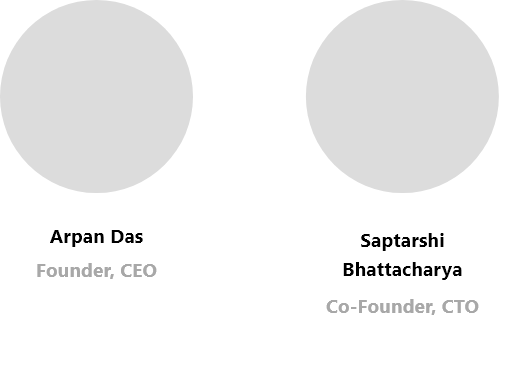
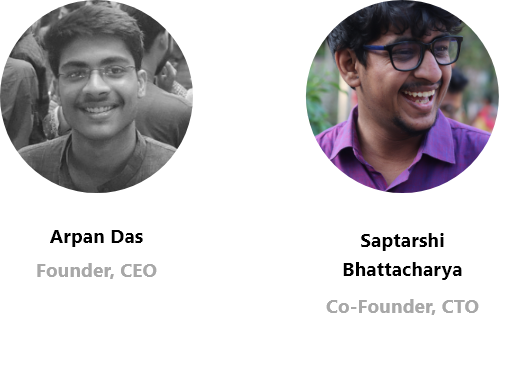
arcade

Changed region(s): [[0.5769, 0.0, 0.9715, 0.5366], [0.0, 0.0, 0.3643, 0.5366]]

diff --git a/pages/index.js b/pages/index.js
@@ -4,7 +4,7 @@ import {Toolbar} from "../components/toolbar.jsx";
 
 export default function Home() {
   return (
-    <div className={styles.container}>
+    <div className={styles.container} id="arcadee">
 
       <Toolbar/>
 
@@ -16,7 +16,7 @@ export default function Home() {
       </div>
       <div className={styles.introtext}>
         <p><span>Imagine being in a Shopping Mall.</span> All the people around you continuously engaging in shopping and activities. Picture the feeling of walking into a shop you are regular in or the joy of finding a hidden gem. How good would it be if you could experience all that from the comfort of your homes? Well, we just made that possible!</p>
-        <Link href="/"><a>Read More ></a></Link>
+        {/* <Link href="/"><a>Read More ></a></Link> */}
       </div>
 
       <div className={styles.recom}>
@@ -26,7 +26,7 @@ export default function Home() {
       <div className={styles.spotlight}>
         <img src="/spotlight.png" alt="" className={styles.spotim} />
         <p>Through recommendations, suggestions launches, maps and various posts, Arcade serves as a huge marketing  platform for companies and their products. Users get exposed to both products they need and are also led to discover new stuff. We aim to provide a one-stop solution for both marketing and sales, and this a huge step in that way. </p>
-        <Link href="/"><a>About Arcade Spotlight ></a></Link>
+        {/* <Link href="/"><a>About Arcade Spotlight ></a></Link> */}
       </div>
 
       <div className={styles.analytics}>
@@ -35,7 +35,7 @@ export default function Home() {
           <div className={styles.analtext}>
             <p>Analytics are provided for Companies, Outlets and Products. These may be used to dictate company or product rankings. <br/> <br/>
               Companies can leverage their analytics and compare to the general market to come up with strategies, while users can judge products and outlets based on these parameters.</p>
-            <Link href="/"><a>Read More ></a></Link>
+            {/* <Link href="/"><a>Read More ></a></Link> */}
           </div>
           <img src="/analphone.png" alt="" border="0" />
         </div>
@@ -45,7 +45,7 @@ export default function Home() {
         <img src="/community.png" alt="" className={styles.comm} />
         <div className={styles.commsub}>
           <p>To replicate the E-mall experience, Arcade has features like live threads, Post Feed page and other methods of community interaction. You can ask for suggestions, react on events and posts or directly talk with a fellow user to express your opinions or maybe to talk about your favourite shoe brand.  </p>
-          <Link href="/"><a>Learn More ></a></Link>
+          {/* <Link href="/"><a>Learn More ></a></Link> */}
         </div>
       </div>
 
@@ -53,7 +53,7 @@ export default function Home() {
         <img src="/delivery.png" alt="" className={styles.del} />
         <div className={styles.delsub}>
           <p>Arcade features fast and doorstep delivery directly from outlets. What you see is what you get. We have cut down on warehouse and larger shipping times to get you your items faster. We can deliver you items on the same day and even within a few hours.</p>
-          <Link href="/"><a>Learn More about Arcade Delivery></a></Link>
+          {/* <Link href="/"><a>Learn More about Arcade Delivery></a></Link> */}
         </div>
       </div>
 
@@ -61,14 +61,14 @@ export default function Home() {
         <img src="/hold.png" alt="" className={styles.hol} />
         <div className={styles.holsub}>
           <p>Don't want to pay extra for delivery? Are you in the area to just pick up your item? You can do just that with our new Hold feature. Just apply to hold you item and use our safe authentication system to securely collect your product right from our outlet.</p>
-          <Link href="/"><a>Learn More Arcade Hold Service></a></Link>
+          {/* <Link href="/"><a>Learn More Arcade Hold Service></a></Link> */}
         </div>
       </div>
 
       <div className={styles.seasons}>
         <img src="/seasons.png" alt="" className={styles.sea} />
         <p>A highly personalized recommendation system based on a ensemble of state of the art technologies and conventional methods to show you exactly what you need. A combination of factors like viewed items, bookmarked items and bought items and much more play their roles to recommend products that both align with your tastes and  help you to discover new stuff.</p>
-        <Link href="/"><a>About Arcade Seasons ></a></Link>
+        {/* <Link href="/"><a>About Arcade Seasons ></a></Link> */}
       </div>
 
       <div className={styles.teams} id="teamsf">
@@ -82,13 +82,13 @@ export default function Home() {
         <img src="/pics.png" alt="" />
       </div>
 
-      <div className={styles.desc}>
+      <div className={styles.desc} id="foot">
         <img src="/arcade.png" alt="" />
         <p>Imagine being in a Shopping Mall. All the people around you continuously engaging in shopping and activities. Picture the feeling of walking into a shop you are regular in or the joy of finding a hidden gem. How good would it be if you could experience all that from the comfort of your homes? Well, we just made that possible!</p>
         <a href="mailto:mailarcade.dev@gmail.com">mailarcade.dev@gmail.com</a>
       </div>
 
-      <div className={styles.footer}>
+      {/* <div className={styles.footer}>
         <div className={styles.footsub}>
 
         <div>
@@ -124,7 +124,7 @@ export default function Home() {
           <Link href="/"><a>About Arcade Seasons ></a></Link>
         </div>
         </div>
-      </div>
+      </div> */}
 
     </div>
   )

diff --git a/styles/Home.module.css b/styles/Home.module.css
@@ -39,7 +39,7 @@
 .introtext a{
   text-decoration: none;
   font-weight: bold;
-  color: #6786dd;
+  color: #2f52b2;
 }
 
 .recom img{
@@ -65,8 +65,8 @@
 }
 
 .spotim{
-  margin-top: 17%;
-  margin-bottom: 13%;
+  margin-top: 14%;
+  margin-bottom: 7%;
   width: 70%;
   display: block;
   margin-left: auto;
@@ -79,17 +79,17 @@
   text-align: center;
   font-family: 'Roboto', sans-serif;
   line-height: 1.5rem;
-  margin-bottom: 4%;
+  margin-bottom: 12%;
   font-weight: bold;
   color: #aaaaaa;
 }
-
+/* 
 .spotlight a{
   text-decoration: none;
   margin-bottom: 12%;
   font-weight: bold;
-  color: #6786dd;
-}
+  color: #2f52b2;
+} */
 
 .analytics{
   margin-top: 2%;
@@ -130,7 +130,7 @@
   font-family: 'Roboto', sans-serif;
   line-height: 1.5rem;
   margin-left: 25%;
-  padding-top: 10%;
+  padding-top: 6%;
   font-weight: bold;
   color: #5b5b5b;
 }
@@ -168,7 +168,7 @@ background: linear-gradient(-18deg, rgba(212,212,212,1) 0%, rgba(241,241,241,1) 
 
 .comm{
   margin-top: 8%;
-  margin-bottom: 11%;
+  margin-bottom: 6.5%;
   width: 75%;
   display: block;
   margin-left: auto;
@@ -178,19 +178,19 @@ background: linear-gradient(-18deg, rgba(212,212,212,1) 0%, rgba(241,241,241,1) 
 .community p{
   width: 40%;
   margin-left: 17.2%;
-  margin-bottom: 1%;
+  margin-bottom: 5%;
   font-weight: bold;
   color: #828282;
 }
 
-.community a{
+/* .community a{
   margin-left: 17.2%;
   text-decoration: none;
   margin-top: 4%;
   font-size: smaller;
   font-weight: 500;
   color: black;
-}
+} */
 
 .commsub{
   margin-bottom: 7%;
@@ -289,8 +289,8 @@ background: linear-gradient(-30deg, rgba(91,91,91,1) 0%, rgba(221,221,221,1) 67%
 }
 
 .sea{
-  margin-top: 17%;
-  margin-bottom: 10%;
+  margin-top: 12%;
+  margin-bottom: 3%;
   width: 70%;
   display: block;
   margin-left: auto;
@@ -303,17 +303,11 @@ background: linear-gradient(-30deg, rgba(91,91,91,1) 0%, rgba(221,221,221,1) 67%
   text-align: center;
   font-family: 'Roboto', sans-serif;
   line-height: 1.5rem;
-  margin-bottom: 2%;
+  margin-bottom: 12%;
   font-weight: bold;
   color: #e6e6e6fb;
 }
 
-.seasons a{
-  text-decoration: none;
-  margin-bottom: 12%;
-  font-weight: bold;
-  color: #ffffff;
-}
 
 .teams{
   width: 100%;
@@ -356,7 +350,10 @@ background: linear-gradient(-30deg, rgba(91,91,91,1) 0%, rgba(221,221,221,1) 67%
   display: flex;
   flex-direction: column;
   justify-content: space-around;
-  background-color: rgb(247, 247, 247);
+  background-color: rgba(216, 216, 216, 0.5);
+
+
+
 }
 
 .desc img{
@@ -378,7 +375,7 @@ background: linear-gradient(-30deg, rgba(91,91,91,1) 0%, rgba(221,221,221,1) 67%
 .desc a{
   margin-top: 1.3%;
   margin-left: 7% ;
-  margin-bottom: 6%;
+  margin-bottom: 9%;
   text-decoration: none;
   color: black;
   font-size: 75%;
@@ -388,7 +385,9 @@ background: linear-gradient(-30deg, rgba(91,91,91,1) 0%, rgba(221,221,221,1) 67%
 .footer{
   width: 100%;
   padding-top: 5%;
-  background-color: rgb(247, 247, 247);
+  background-color: rgba(216, 216, 216, 0.5);
+
+
   padding-bottom: 7%;
 }
 

diff --git a/components/toolbar.jsx b/components/toolbar.jsx
@@ -6,12 +6,12 @@ export const Toolbar = () => {
     return (
         <div className={styles.main}>
             <div className={styles.indiaarcade}>
-                <img src="/indiaarcade.png" alt="" />
+                <a href="#arcadee"><img src="/indiaarcade.png" alt="" /></a>
             </div>
             <div className={styles.options}>
             <div  className={styles.click}><a href="#overview">Overview</a></div>
-            <div onClick={() => router.push('/feed/1')} className={styles.click}>Why Arcade?</div>
-            <div className={styles.click}><a href="#teamsf">Connect</a></div>
+            <div className={styles.click}><a href="#teamsf">Arcade Team</a></div>
+            <div className={styles.click}><a href="#foot">Connect</a></div>
             </div>
         </div>
     );

diff --git a/styles/globals.css b/styles/globals.css
@@ -9,3 +9,17 @@
     font-family: titleS;
     src: url("../public/Segoe\ UI.ttf");
   }
+
+  ::-webkit-scrollbar {
+    width: 5px;
+  }
+  
+  ::-webkit-scrollbar-track {
+    background-color: rgb(255, 255, 255);
+    width: 95px;
+  }
+  
+  ::-webkit-scrollbar-thumb {
+    box-shadow: inset 0 0 50px #7e7e7e;
+    border-radius: 8px;
+  }
